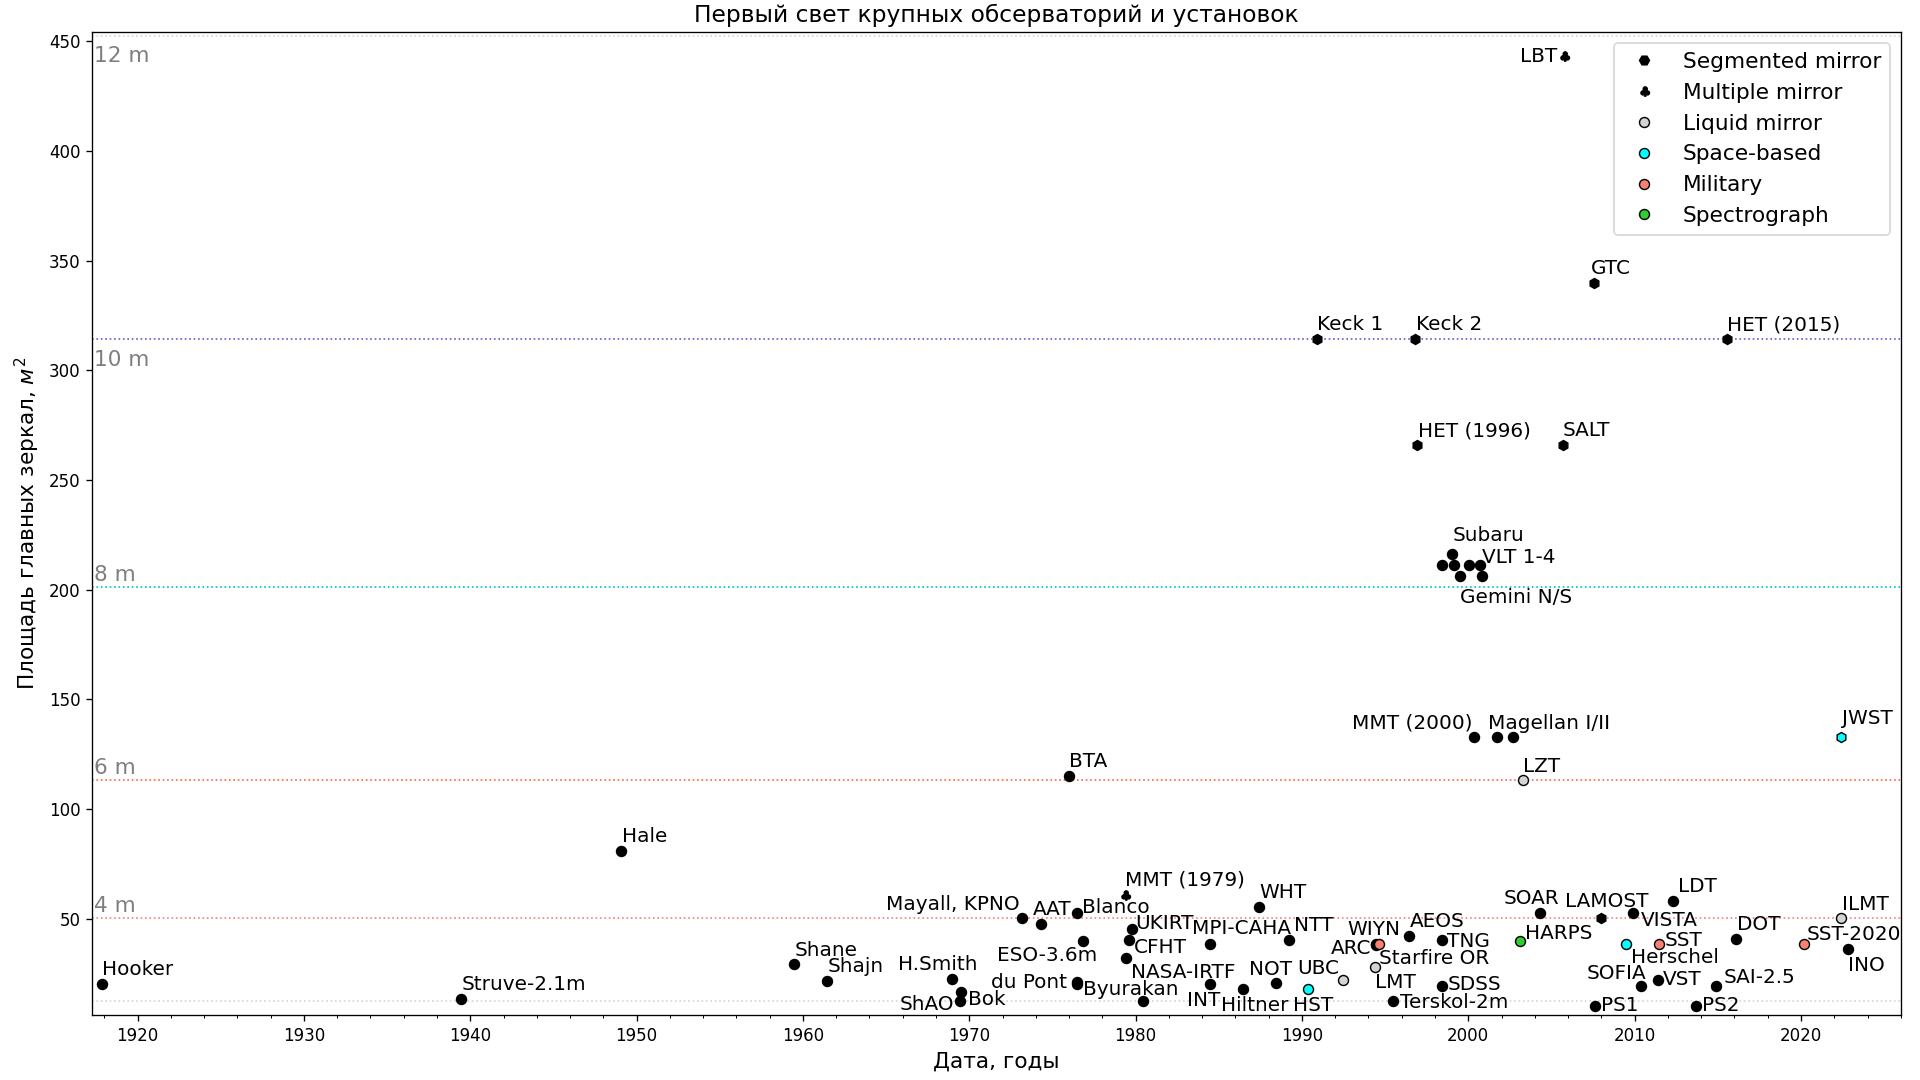
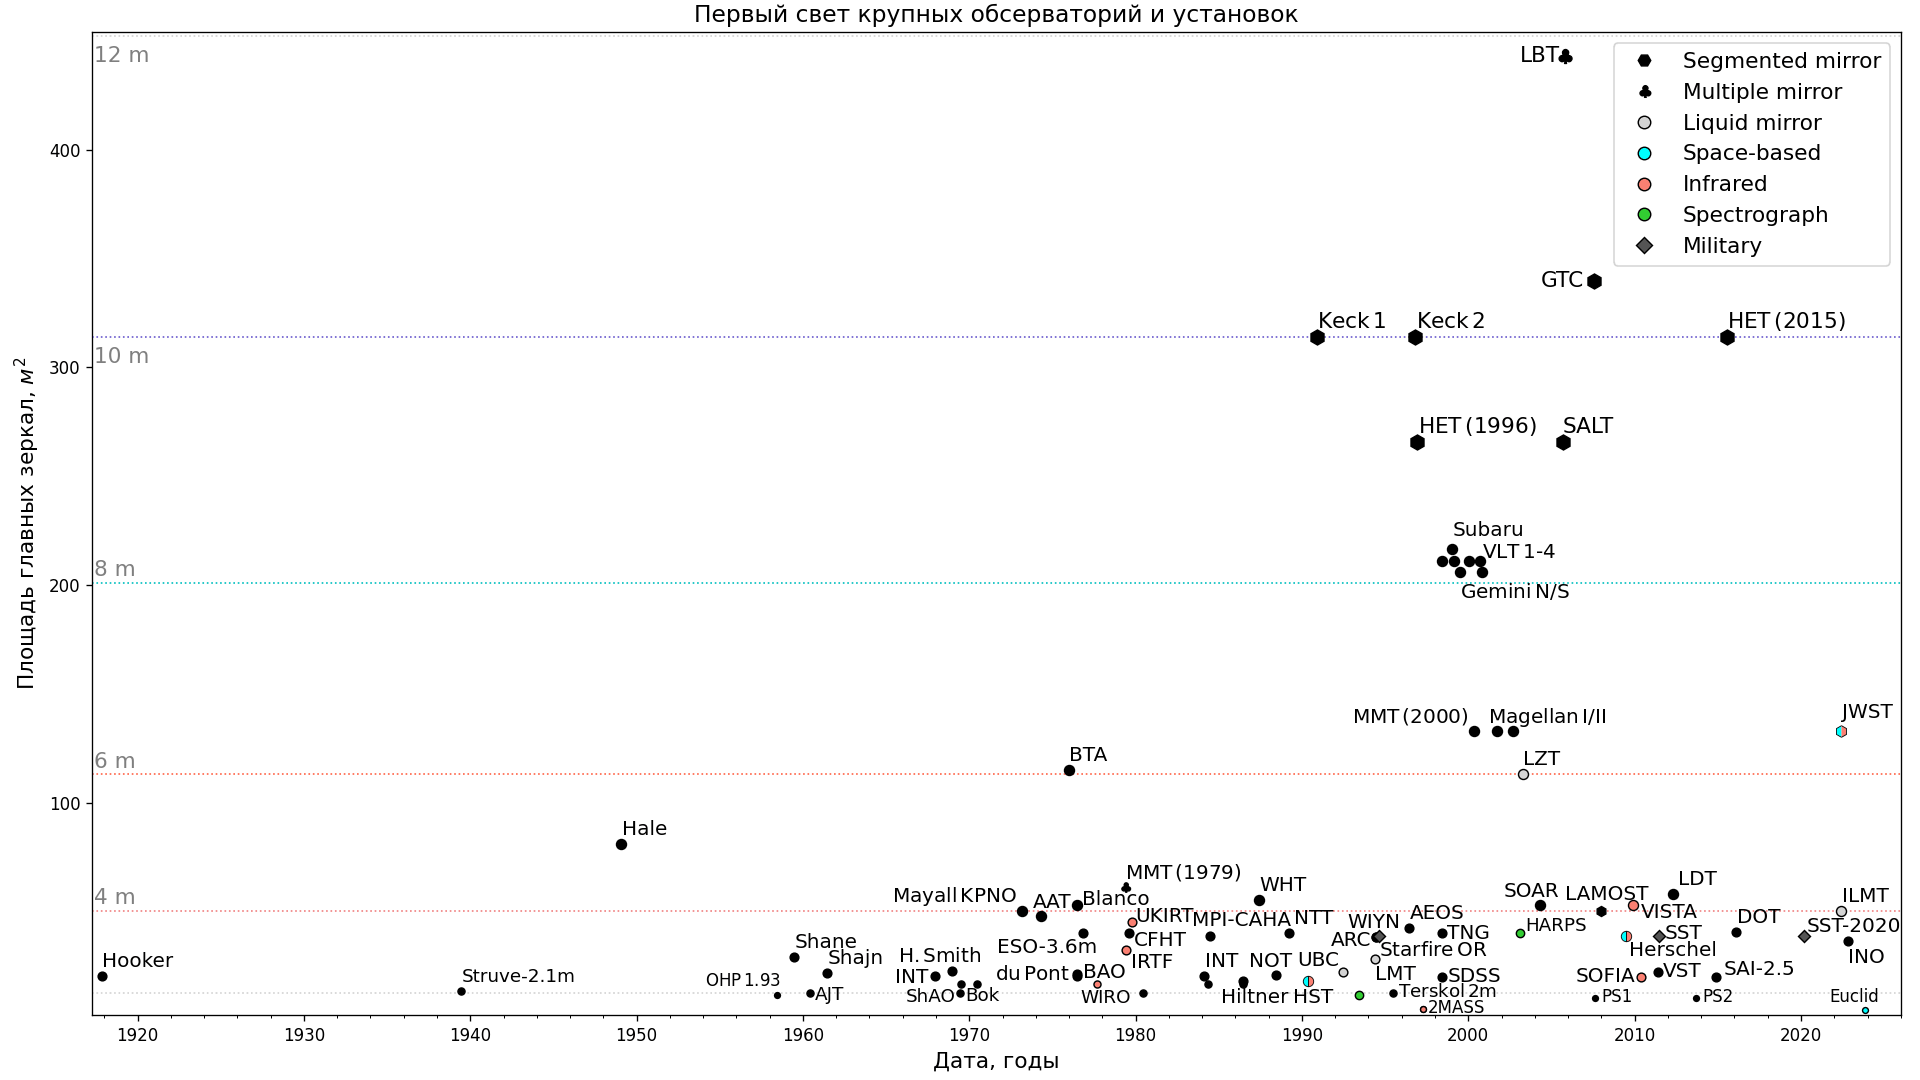
update data, plots, code
work with telescopes/interferometers/spectrographs first light timeline

diff --git a/src/astrodata/observational/mk_telesc_timelines.py b/src/astrodata/observational/mk_telesc_timelines.py
@@ -20,6 +20,7 @@ areas = []
 types = []
 mirrors = []
 locs = []
+wvs = []
 for instr, dat in data.items():
     numbr = 1
     diam = dat["diam"]
@@ -27,6 +28,7 @@ for instr, dat in data.items():
     tp = dat.get("type")
     mr = dat.get("mirror")
     lc = dat.get("loc")
+    wv = dat.get("wvband")
     if isinstance(diam, str):
         diam = [eval(i) for i in diam.split("x")]
         if isinstance(fl, list) and diam[-1] == len(fl):
@@ -38,6 +40,7 @@ for instr, dat in data.items():
                 types.append(tp)
                 mirrors.append(mr)
                 locs.append(lc)
+                wvs.append(wv)
             continue
         numbr, diam = diam[1], diam[0]
     diams.append(diam)
@@ -59,6 +62,11 @@ for instr, dat in data.items():
         area = numbr * np.pi * (diam / 1000) ** 2
     areas.append(round(area, 2))
     nams.append(instr)
+    if isinstance(wv, list) and "NIR" in wv or wv == "NIR":
+        wv = "NIR"
+    else:
+        wv = ""
+    wvs.append(wv)
 
 fig, ax = plt.subplots(figsize=(16, 9))
 fig.subplots_adjust(0.048, 0.06, 0.99, 0.97)
@@ -68,35 +76,43 @@ XLIMS = (datetime(1917, 4, 10), datetime(2026, 1, 1))
 
 NAMES_DCT = {"TBL": "", "HET-1996": "HET (1996)", "HET-2015": "HET (2015)",
              "MMT-1979": "MMT (1979)", "MMT-2000": "MMT (2000)", "PS 1": "PS1",
-             "PS 2": "PS2",
+             "PS 2": "PS2", "INT (1967)": "INT", "INT (1984)": "INT", "SST (2020)": "SST-2020",
+             "Byurakan": "BAO", "Vainu Bappu": "", "ATT": "", "Hawaii 2.2": "",
+             "ELODIE": "", "2MASS 1": "2MASS", "2MASS 2": "",
              }
+SHIFT_DCT = {"Starfire OR": 60}
 if XLIMS[1] == datetime(2007, 11, 15):
-    NAMES_DCT.update({"UBC": "UBC/Laval LMT"})
+    NAMES_DCT.update({"UBC": "UBC/Laval LMT", "ELODIE": "ELODIE"})
+    SHIFT_DCT.update({"Starfire OR": 30})
     ARS_DCT = {
-        "Subaru": 9,  # 2
-        "Gemini 1": -30,  # -16,
-        "Gemini 2": -30,  # -16,
-        "VLTI": -26,
+        "VLT": -3,
+        "VLTI": -28,
+        "Subaru": 9,
+        "Gemini 1": -30,
+        "Gemini 2": -30,
         "SDSS": -8,
         "LMT": -26,
         "ARC": 14,
-        "VLT": -3,
+        "Terskol 2m": -3,
+        "ELODIE": -10
     }
     DYS_DCT = {
         "GTC": -80,
-        "VLTI": 4,
-        "PS1": -90,
+        "VLTI": 20,
+        "PS 1": -90,
         "SDSS": 15,
         "WIYN": -200,
         "ARC": -20,
         "Starfire OR": 20,
-        "UBC/Laval LMT": -30,
+        "UBC": -30,
         "MMT (2000)": -30,
+        "ELODIE": 20
     }
     _DYS, _ARS = 10, 9
 else:
     _DYS, _ARS = 10, 4
     ARS_DCT = {
+        "GTC": -7,
         "LBT": -7,
         "Subaru": 2,
         "Gemini 1": -16,
@@ -105,7 +121,7 @@ else:
         "JWST": 2,
         "SDSS": -6,
         "ESO-3.6m": -13,
-        "NASA-IRTF": -13,
+        "IRTF": -12,
         "CFHT": -10,
         "UKIRT": -4,
         "Blanco": -4,
@@ -114,33 +130,38 @@ else:
         "HARPS": -3,
         "LAMOST": 1,
         "VISTA": -10,
-        "Herschel": -12.5,
+        "Herschel": -13,
         "MPI-CAHA": 0.6,
         "Starfire OR": -13,
         "ARC": -8,
         "INO": -14,
-        "SST-2020": -2,
+        "SST (2020)": -2,
         "SST": -5,
-        "SOFIA": -1,
+        "SOFIA": -6,
         "LMT": -14,
-        "Byurakan": -10,
-        "Terskol-2m": -7,
+        "Byurakan": -6,
+        "Terskol 2m": -6,
         "VST": -6,
         "ShAO": -8,
         "SAI-2.5": -3,
         "INT": -14,
+        "INT (1967)": -7,
         "du Pont": -6,
         "HST": -14,
         "UBC": -1,
         "Hiltner": -14,
-        "Bok": -10,
-        "PS1": -6,
+        "Bok": -12,
+        "PS 1": -6,
+        "PS 2": -6,
+        "AJT": -7.5,
+        "WIRO": -12.5,
+        "2MASS 1": -6,
     }
     DYS_DCT = {
         "LBT": -990,
-        "GTC": -70,
+        "GTC": -1170,
         "VLTI": 4,
-        "Mayall, KPNO": -3000,
+        "Mayall KPNO": -2850,
         "AAT": -200,
         "ESO-3.6m": -1900,
         "CFHT": 90,
@@ -154,64 +175,95 @@ else:
         "LAMOST": -800,
         "LDT": 100,
         "VISTA": 150,
-        "Herschel": 100,
+        "Herschel": 50,
         "MPI-CAHA": -400,
         "NTT": 100,
         "ARC": -1000,
         "WIYN": -650,
         "SST": 120,
-        "SST-2020": 60,
+        "SST (2020)": 60,
         "Starfire OR": 60,
-        "Terskol-2m": 150,
-        "NASA-IRTF": 100,
+        "Terskol 2m": 100,
+        "IRTF": 100,
         "Byurakan": 120,
-        "SOFIA": -1200,
+        "SOFIA": -1450,
         "NOT": -600,
-        "H.Smith": -1200,
-        "ShAO": -1340,  # 130,
+        "H. Smith": -1200,
+        "ShAO": -1200,
         "SAI-2.5": 160,
         "INT": -500,
-        "du Pont": -1890,
+        "INT (1967)": -890,
+        "du Pont": -1800,
         "HST": -350,
         "UBC": -1000,
         "VST": 90,
         "Hiltner": -500,
-        "Bok": 150,
+        "Bok": 100,
         "MMT (2000)": -2700,
-        "PS1": 120,
+        "PS 1": 120,
+        "PS 2": 120,
+        "OHP 1.93": -1600,
+        "AJT": 90,
+        "WIRO": -380,
+        "Euclid": -800,
+        "2MASS 1": 100,
     }
 clrs_dct = {
-    "liquid-mirror": "lightgrey", "military": "salmon", "spectrograph": "limegreen",
+    "liquid-mirror": "lightgrey", "military": "#555", "spectrograph": "limegreen", "NIR": "salmon",
 }
-markers_dct = {"segmented": "h", "multiple": "$\clubsuit$", "liquid": "o"}
+markers_dct = {"segmented": "h", "multiple": "$\clubsuit$", "liquid": "o", "military": "D"}
 
 for i, ar in enumerate(areas):
     DYS, ARS = _DYS, _ARS
-    if ar > 7:  # 1.5m or bigger
+    if ar > 5 or nams[i] in ("Euclid"):
         if nams[i] == "VLTI":
             ar = 844.9628
         clr = "k"
         if types[i] in clrs_dct:
             clr = clrs_dct[types[i]]
-        if locs[i] == "space":
-            clr = "cyan"
+        if wvs[i] in clrs_dct:
+            clr = clrs_dct[wvs[i]]
         marker = "o"
         if mirrors[i] in markers_dct:
             marker = markers_dct[mirrors[i]]
-        if nams[i] in NAMES_DCT:
-            nams[i] = NAMES_DCT[nams[i]]
-        if nams[i] == "Starfire OR":
-            SFDLT = 10
-            if XLIMS[1] != datetime(2007, 11, 15):
-                SFDLT = 60
+        SFDLT = 0
+        if nams[i] in SHIFT_DCT:
+            SFDLT = SHIFT_DCT[nams[i]]
+        MS = 6
+        FS = 13
+        if ar > 227:
+            MS = 9
+            FS = 13
+        elif ar < 227 and ar >= 47.78:
+            MS = 6
+            FS = 12
+        elif ar < 47.78 and ar >= 18.095:  # 3.9-2.4
+            MS = 5.25
+            FS = 12
+        elif ar < 18.095 and ar >= 12.566:
+            MS = 4.25
+            FS = 11
+        elif ar < 12.566:
+            MS = 3.5
+            FS = 10
+        if types[i] == "spectrograph":
+            MS = 5
+            FS = 11
+        if types[i] == "military":
+            marker = markers_dct["military"]
+        if locs[i] == "space":
+            clr = "cyan"
+        ZORD = 1
+        if nams[i] in ("HST", "Herschel", "JWST"):
+            ax.plot(
+                dats[i] + timedelta(days=SFDLT), ar, marker=marker,
+                fillstyle="left", c='cyan', markerfacecoloralt='salmon',
+                markeredgecolor="black", markeredgewidth=0.5, ms=MS+1, zorder=ZORD,
+            )
+        else:
             ax.plot(
                 dats[i] + timedelta(days=SFDLT), ar, marker=marker, c=clr,
-                markeredgecolor="black", markeredgewidth=0.85, ms=6, zorder=1,
-            )
-        elif nams[i] not in ("VLT/HiRISE",):
-            ax.plot(
-                dats[i], ar, marker=marker, c=clr,
-                markeredgecolor="black", markeredgewidth=0.85, ms=6, zorder=1,
+                markeredgecolor="black", markeredgewidth=0.85, ms=MS, zorder=ZORD,
             )
         if nams[i] in ARS_DCT:
             ARS += ARS_DCT[nams[i]]
@@ -231,9 +283,6 @@ for i, ar in enumerate(areas):
             nams[i] = {"Gemini 1": "Gemini N/S", "Gemini 2": ""}[nams[i]]
         elif "Gemini" in nams[i] and XLIMS[1]:
             nams[i] = {"Gemini 1": "Gemini N", "Gemini 2": "Gemini S"}[nams[i]]
-        if nams[i] == "PS2":
-            ARS -= 6
-            DYS += 120
         if nams[i] == "Magellan 1" and XLIMS[1] != datetime(2007, 11, 15):
             nams[i] = "Magellan I/II"
             DYS -= 200
@@ -246,8 +295,11 @@ for i, ar in enumerate(areas):
         elif nams[i] == "Magellan 2":
             nams[i] = "Magellan II"
             DYS += 15
+        if nams[i] in NAMES_DCT:
+            nams[i] = NAMES_DCT[nams[i]]
         t = plt.annotate(
-            nams[i], (dats[i] + timedelta(days=DYS), ar + ARS), fontsize=12, zorder=5
+            nams[i].replace(" ", "$\,$"), (dats[i] + timedelta(days=DYS), ar + ARS), fontsize=FS,
+            zorder=5
         )
 
 if XLIMS[1] == datetime(2007, 11, 15):
@@ -280,9 +332,9 @@ t = plt.annotate("16 m", (XLIMS[0] + timedelta(days=30), 804.248 + ANDLT2),
 
 plt.xlim(XLIMS)
 if XLIMS[1] == datetime(2007, 11, 15):
-    plt.ylim(7.1, 845)
+    plt.ylim(1.3, 845)
 else:
-    plt.ylim(6.1, 454)
+    plt.ylim(2.3, 454)
 if XLIMS[1] == datetime(2007, 11, 15):
     YL, MYL = 2, 1
 else:
@@ -296,7 +348,7 @@ plt.ylabel("Площадь главных зеркал, $м^2$", fontsize=13)
 
 handles, labels = plt.gca().get_legend_handles_labels()
 
-MS = 6
+MS = 7.5
 legend_elements = [
     Line2D([0], [0], label="Segmented mirror", c="k", markeredgecolor="black",
            markeredgewidth=0.85, ms=MS, marker="H", linestyle=""),
@@ -306,10 +358,12 @@ legend_elements = [
            markeredgewidth=0.85, ms=MS, marker="o", linestyle=""),
     Line2D([0], [0], label="Space-based", c="cyan", markeredgecolor="black",
            markeredgewidth=0.85, ms=MS, marker="o", linestyle=""),
-    Line2D([0], [0], label="Military", c="salmon", markeredgecolor="black",
+    Line2D([0], [0], label="Infrared", c="salmon", markeredgecolor="black",
            markeredgewidth=0.85, ms=MS, marker="o", linestyle=""),
     Line2D([0], [0], label="Spectrograph", c="limegreen", markeredgecolor="black",
            markeredgewidth=0.85, ms=MS, marker="o", linestyle=""),
+    Line2D([0], [0], label="Military", c=clrs_dct["military"], markeredgecolor="black",
+           markeredgewidth=0.85, ms=MS-1, marker=markers_dct["military"], linestyle=""),
 ]
 handles.extend(legend_elements)
 plt.legend(handles=handles, loc="upper right", fontsize=13)
